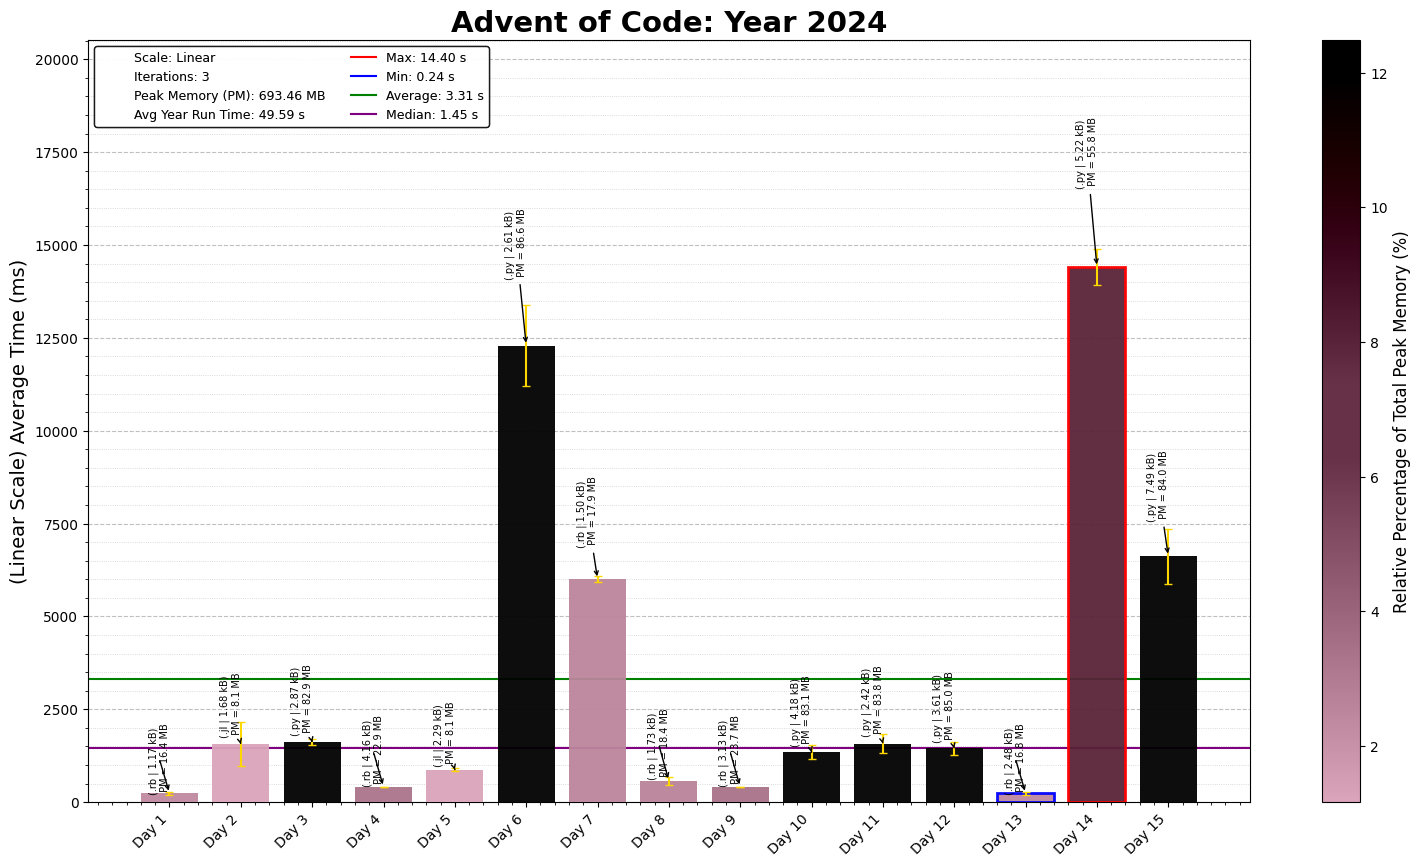
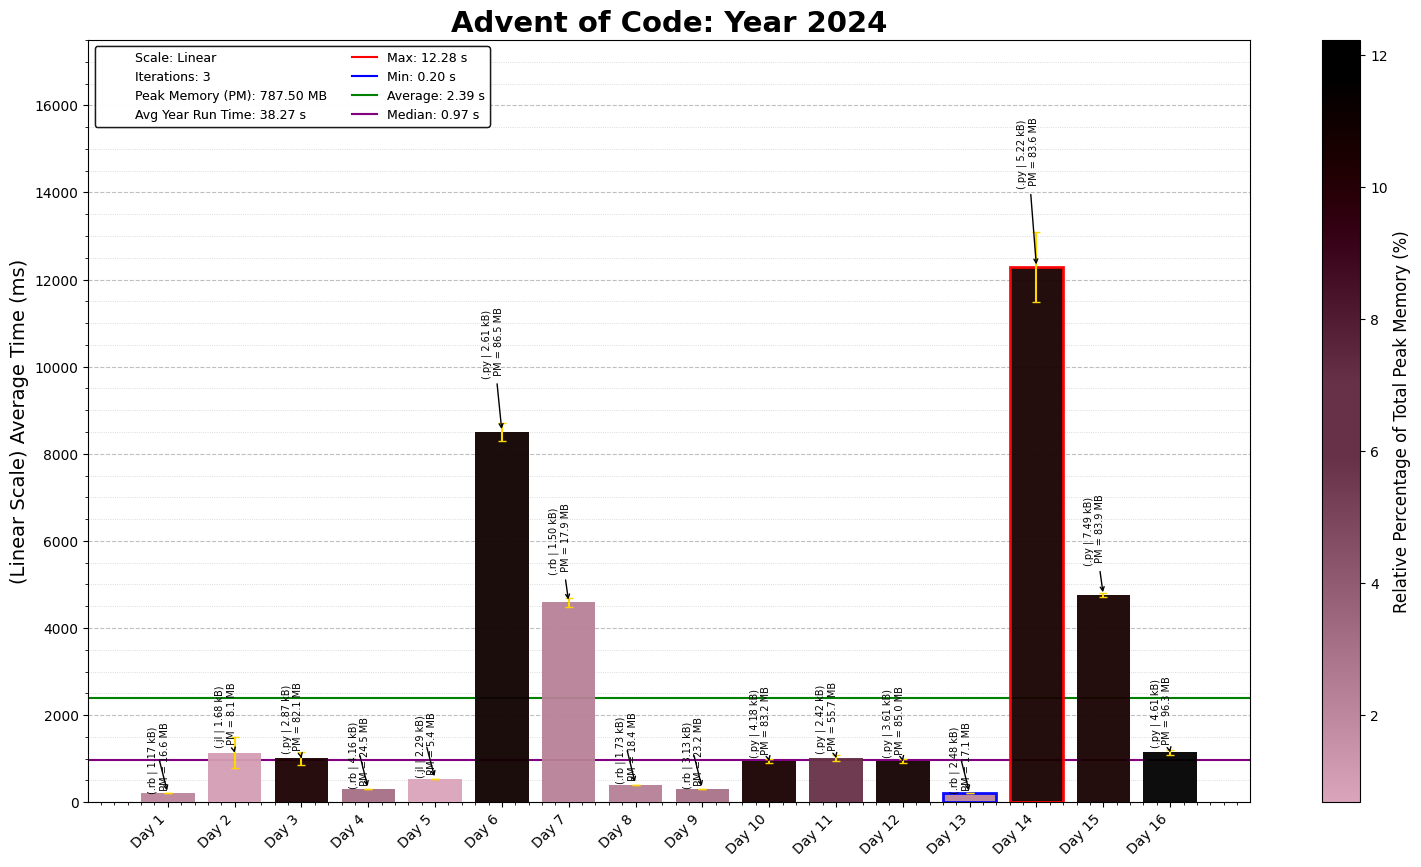
2024 Day 16

diff --git a/2024/16/2024Day16.py b/2024/16/2024Day16.py
@@ -1,0 +1,120 @@
+"""Advent of Code - Day 16, Year 2024
+Solution Started: Dec 16, 2024
+Puzzle Link: https://adventofcode.com/2024/day/16
+Solution by: abbasmoosajee07
+Brief: [Path finder in  a maze]
+"""
+
+#!/usr/bin/env python3
+
+import os, re, copy
+import numpy as np
+import pandas as pd
+import matplotlib.pyplot as plt
+import heapq
+
+# Load the input data from the specified file path
+D16_file = "Day16_input.txt"
+D16_file_path = os.path.join(os.path.dirname(os.path.abspath(__file__)), D16_file)
+
+# Read and sort input data into a grid
+with open(D16_file_path) as file:
+    input_data = file.read().strip().split('\n')
+
+def parse_input(input):
+    map_grid = np.array([list(row) for row in input], dtype = object)
+    for row_no, row in enumerate(map_grid):
+        for col_no, char in enumerate(row):
+            if char == 'S':
+                start = (row_no, col_no)
+            if char == 'E':
+                end = (row_no, col_no)
+    return map_grid, start, end
+
+def path_finder(grid, start, goal):
+    DIRECTIONS = [(-1, 0), (0, 1), (1, 0), (0, -1)]  # up, right, down, left
+
+    rows, cols = len(grid), len(grid[0])  # Grid dimensions
+
+    optimal_tiles = []  # To track the tiles in the optimal path
+    visited = set()  # To track the visited nodes
+    heapq.heappush(optimal_tiles, (0, start[0], start[1], 1))  # Start by facing right (east)
+    start_to_goal_dist = {}  # Store the minimum distance from start to each tile
+    best_path_cost = None  # To track the best path cost
+
+    # First A* search: from start to goal
+    while optimal_tiles:
+        current_cost, r, c, direction = heapq.heappop(optimal_tiles)
+
+        if (r, c, direction) not in start_to_goal_dist:
+            start_to_goal_dist[(r, c, direction)] = current_cost
+
+        if (r, c) == goal and best_path_cost is None:
+            best_path_cost = current_cost
+
+        if (r, c, direction) in visited:
+            continue
+        visited.add((r, c, direction))
+
+        dr, dc = DIRECTIONS[direction]
+        next_r, next_c = r + dr, c + dc
+
+        if 0 <= next_c < cols and 0 <= next_r < rows and grid[next_r][next_c] != '#':
+            heapq.heappush(optimal_tiles, (current_cost + 1, next_r, next_c, direction))
+
+        # Allow for direction changes (turning left or right)
+        heapq.heappush(optimal_tiles, (current_cost + 1000, r, c, (direction + 1) % 4))
+        heapq.heappush(optimal_tiles, (current_cost + 1000, r, c, (direction + 3) % 4))
+
+    optimal_tiles = []  # Reset for second search
+    visited = set()  # Reset visited set
+    goal_to_start_dist = {}  # To store the minimum distance from goal to each tile
+
+    # Start a second A* search: from goal to start (going backwards)
+    for direction in range(4):
+        heapq.heappush(optimal_tiles, (0, goal[0], goal[1], direction))
+
+    while optimal_tiles:
+        current_cost, r, c, direction = heapq.heappop(optimal_tiles)
+
+        if (r, c, direction) not in goal_to_start_dist:
+            goal_to_start_dist[(r, c, direction)] = current_cost
+
+        if (r, c, direction) in visited:
+            continue
+        visited.add((r, c, direction))
+
+        # Going backwards (reverse the direction)
+        dr, dc = DIRECTIONS[(direction + 2) % 4]
+        next_r, next_c = r + dr, c + dc
+
+        if 0 <= next_c < cols and 0 <= next_r < rows and grid[next_r][next_c] != '#':
+            heapq.heappush(optimal_tiles, (current_cost + 1, next_r, next_c, direction))
+
+        # Allow for direction changes (turning left or right)
+        heapq.heappush(optimal_tiles, (current_cost + 1000, r, c, (direction + 1) % 4))
+        heapq.heappush(optimal_tiles, (current_cost + 1000, r, c, (direction + 3) % 4))
+
+    # Now calculate the optimal tiles: those whose start-to-goal and goal-to-start distances sum to the best path cost
+    optimal_tiles_set = set()  # Set to store the optimal tiles
+    for r in range(rows):
+        for c in range(cols):
+            for direction in range(4):
+                # A tile (r, c, direction) is part of the optimal path if the sum of the distances equals the best cost
+                if (r, c, direction) in start_to_goal_dist and (r, c, direction) in goal_to_start_dist:
+                    if start_to_goal_dist[(r, c, direction)] + goal_to_start_dist[(r, c, direction)] == best_path_cost:
+                        optimal_tiles_set.add((r, c))
+
+    return optimal_tiles_set, best_path_cost
+
+grid, start, goal = parse_input(input_data)
+
+# Run A* search
+path, cost = path_finder(grid, start, goal)
+
+# Print results
+if path:
+    print("Part 1:", cost)
+    print("Part 2:", len(path))
+else:
+    print("No path found.")

diff --git a/2024/README_2024.md b/2024/README_2024.md
@@ -19,3 +19,4 @@ This repository contains coding solutions for the 2024 Advent of Code. Its the f
 13. **Day 13- Claw Contraption**: *Ruby* | Solving simultaneous equations, fairly simple ad could have solved it far faster if i simply used round instead of int from the start, but lesson learned
 14. **Day 14- Restroom Redoubt**: *Python* | Particle Tracking in a grid, which was fairly simple, but finding the easter egg convinced me I never looked for one
 15. **Day 15- Warehouse Woes**: *Python* | Moving elements in a grid according to a set of instructions, seems complicated but fairly manageable, once you work out a couple of edge cases. Not the most elegant solution, but definitely one of my favourite ones overall.
+16. **Day 16- Reindeer Maze**: *Python* | A* search to find minimum path in a maze, adapted a fairly standard algorithm with the cost function.
